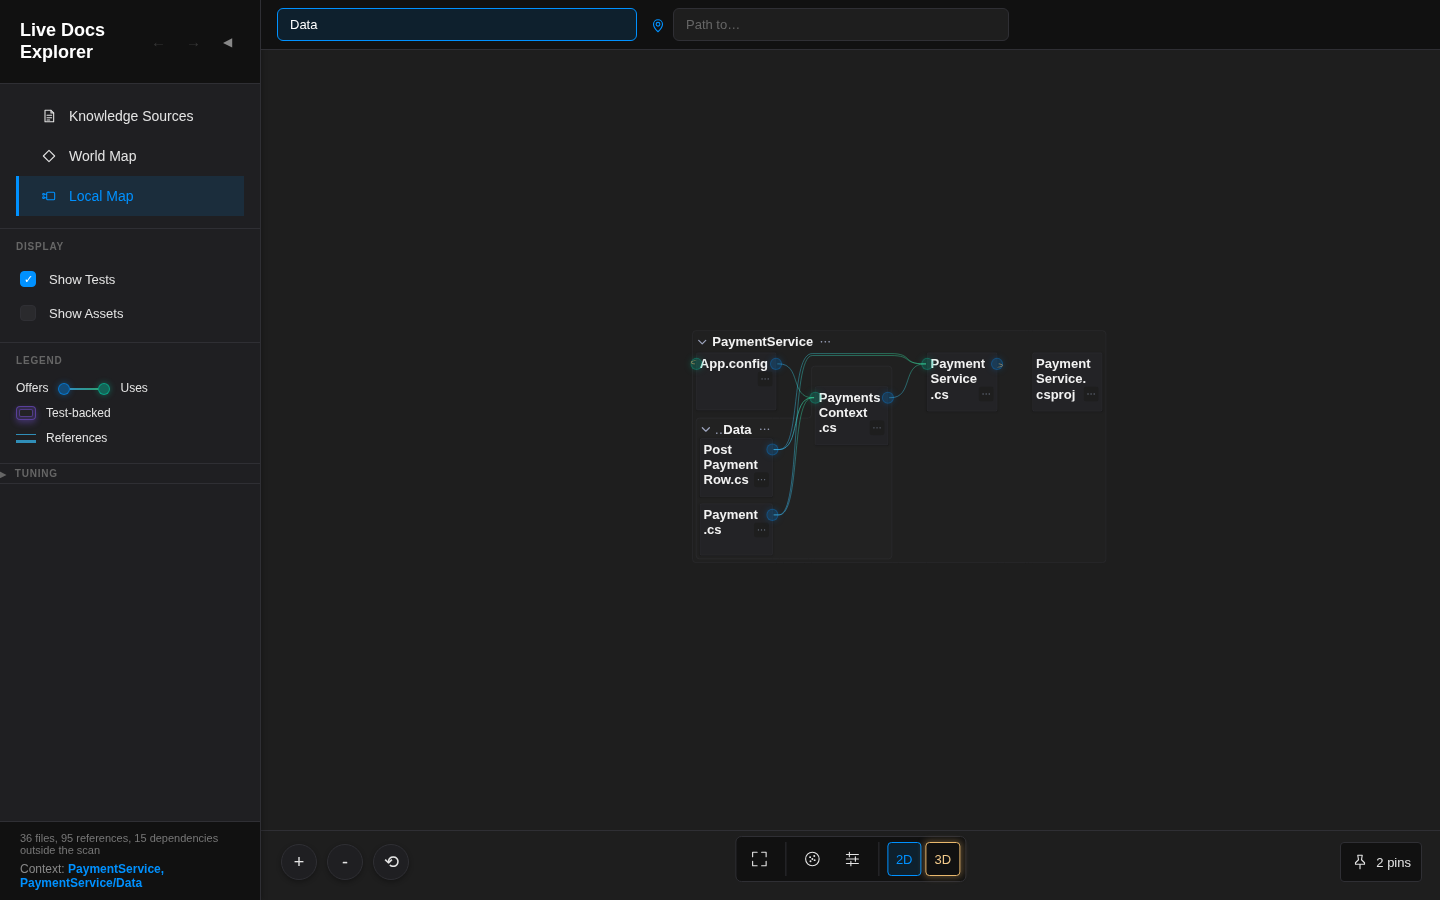
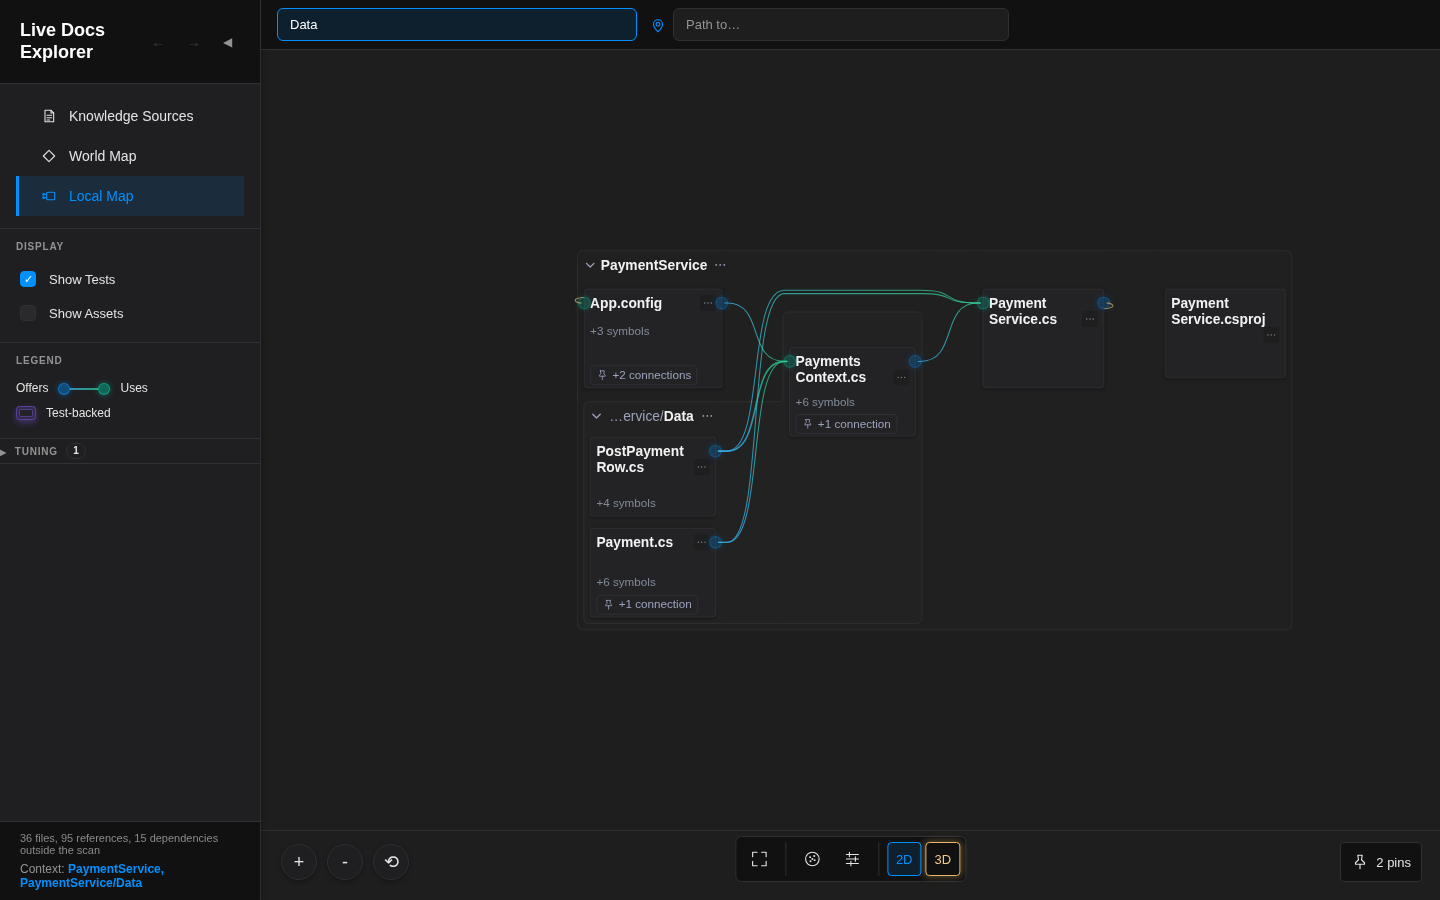
Retake the returning connections pictures on the final build, with the route's alternatives and the price's two hubs

diff --git a/AI-Agent-Workspace/AgentSessionHistory/2026/11/2026-11-18/Screenshots/returning-connections/README.md b/AI-Agent-Workspace/AgentSessionHistory/2026/11/2026-11-18/Screenshots/returning-connections/README.md
@@ -1,6 +1,6 @@
 # A cycle's returning connection, the row's hover, and the hubs
 
-Historical evidence, November 19, 2026 (UTC). A builder's pictures for the round that answered the owner's picture of [Turn 23 of the day's record](../../2026-11-18.1.record.md#turn-23) ([their picture](../owner-turn-23/README.md)). All are 1440 by 900, the suite's stilled search, nothing remembered. "The owner's state" is the estate sample with the directories `PaymentService` and `PaymentService/Data` opened, Flow, the default; "rows shown" adds a press on the "+N symbols" of `App.config` and `PaymentService.cs`, as the owner had done. Before is `main` at `55cb5477`; after is the branch `returning-connections` at each step.
+Historical evidence, November 19, 2026 (UTC). A builder's pictures for the round that answered the owner's picture of [Turn 23 of the day's record](../../2026-11-18.1.record.md#turn-23) ([their picture](../owner-turn-23/README.md)). All but 18 and 19 are 1440 by 900, the suite's stilled search, nothing remembered. "The owner's state" is the estate sample with the directories `PaymentService` and `PaymentService/Data` opened, Flow, the default; "rows shown" adds a press on the "+N symbols" of `App.config` and `PaymentService.cs`, as the owner had done. Before is `main` at `55cb5477`. Every "after" picture (02, 03, 05 to 09, 11 to 25) was retaken on November 19 on the round's final build, the branch `returning-connections-finish` merged with `main`, so all of them show the hubs at the names and the route over the top; 02 and 13 are now the same state and picture, as are 05 and 12, and 11 and 15. The tuning panel's badge reads 1 because the browser suite saves one setting of its own (the search's starts at nought).
 
 The cycle is `PaymentService.cs` to `PaymentsContext.cs` to `App.config` and back. Its return, `App.config`'s use of `PaymentService.cs`, is in the graph a link from `App.config`'s Internals to `PaymentService.cs`'s row `PaymentService`; in Flow it is a pair line between the two files' hubs.
 
@@ -9,7 +9,7 @@ The cycle is `PaymentService.cs` to `PaymentsContext.cs` to `App.config` and bac
 | Picture | What it shows |
 | --- | --- |
 | [01-before-row-internals-connections.png](01-before-row-internals-connections.png) | The owner's state, rows shown, at the connections look, the pointer on `App.config`'s Internals, which carries the return. Every wire of the picture fades, the return's two curls among them: the owner's report. The hub of `App.config` stands half way down the card, level with the row `Estate.Payments.Paym...`. |
-| [02-after-row-internals-connections.png](02-after-row-internals-connections.png) | The same with the first two steps: the return's two laces and its route are kept and drawn, everything else fades. |
+| [02-after-row-internals-connections.png](02-after-row-internals-connections.png) | The same after the round: the return's two laces and its route are kept and drawn, everything else fades. |
 | [03-after-row-paymentsdb-reading.png](03-after-row-paymentsdb-reading.png) | At the reading look, the pointer on `App.config`'s `PaymentsDb`, which `PaymentsContext.cs` uses: that line is kept, and the row at its far end (`PaymentsContext.cs`'s Internals, not shown on its card) with it. |
 
 ## 2. What the cue counts, drawn in its colour; a lace or a foot keeps its whole connection
@@ -17,8 +17,8 @@ The cycle is `PaymentService.cs` to `PaymentsContext.cs` to `App.config` and bac
 | Picture | What it shows |
 | --- | --- |
 | [04-before-reading-rest.png](04-before-reading-rest.png) | The owner's state as it arrives: a green curl at `App.config`'s left edge, a blue one at `PaymentService.cs`'s right, the 3D button amber. |
-| [05-after-reading-rest.png](05-after-reading-rest.png) | The same with the second step: both curls amber, the 3D button's colour; every other wire in the roles' blue and green. |
-| [06-after-reading-lace.png](06-after-reading-lace.png) | The pointer on `App.config`'s lace: both laces and the route kept, both cards standing, the other cards and every other wire faded. The route is the straight amber line from one card's edge to the other's, across both cards. |
+| [05-after-reading-rest.png](05-after-reading-rest.png) | The same after the round: both curls amber, the 3D button's colour, at the files' names; every other wire in the roles' blue and green. |
+| [06-after-reading-lace.png](06-after-reading-lace.png) | The pointer on `App.config`'s lace: both laces and the route kept, both cards standing, the other cards and every other wire faded. The route leaves `PaymentService.cs` to the right, runs back above both cards and comes down into `App.config` from the left (section 4). |
 | [07-after-reading-foot.png](07-after-reading-foot.png) | The pointer on `App.config`'s foot, "1 connection returns in a cycle": the same. |
 | [08-after-connections-lace.png](08-after-connections-lace.png) and [09-after-overview-lace.png](09-after-overview-lace.png) | A lace pointed at, at the connections and overview looks. |
 | [10-before-branch-renderer.png](10-before-branch-renderer.png) and [11-after-branch-renderer.png](11-after-branch-renderer.png) | This repository's `branch-renderer.ts` opened alone: six returning laces at its right edge, blue before and amber after; the green curls at its left edge are the file's own references, which are no returns and keep their colours. |
@@ -28,7 +28,7 @@ The cycle is `PaymentService.cs` to `PaymentsContext.cs` to `App.config` and bac
 | Picture | What it shows |
 | --- | --- |
 | [12-after-hubs-reading.png](12-after-hubs-reading.png) | The owner's state as it arrives with the third step: each line ends level with its file's name, the cards standing by their names. |
-| [13-after-hubs-connections-row.png](13-after-hubs-connections-row.png) | The owner's picture again, rows shown, the pointer on `App.config`'s Internals: the curls stand at the names, clear of every row. The route, still a straight line between the two hubs, now runs through both names. |
+| [13-after-hubs-connections-row.png](13-after-hubs-connections-row.png) | The owner's picture again, rows shown, the pointer on `App.config`'s Internals: the curls stand at the names, clear of every row, and the route runs back above both cards. (Before the route was redrawn this picture showed it as a straight line between the hubs, through both names.) |
 | [14-after-hubs-overview.png](14-after-hubs-overview.png) | The overview look: the hubs at the held names, larger with the look. |
 | [15-after-hubs-branch-renderer.png](15-after-hubs-branch-renderer.png) | `branch-renderer.ts` alone with the third step, unchanged where no hub ends a line. |
 
@@ -46,4 +46,28 @@ The hubs stand at the middle of the header's first line: for a name of one line,
 
 - The row's hover keeps exactly what carries the row's links (the browser case reads them from the graph's own links).
 - The amber laces read as one thing with the button. In these pictures no directory mark in orange stands near them (a closed directory's cells are drawn by file kind, and none here is a directory cell), so no second hue was drawn for comparison.
-- The route as drawn is a straight line between the two hubs and crosses both cards: before the third step it crossed the rows level with the hubs, after it crosses both file names. It reads as one connection with the laces, but as a strike through the names. Left for the root and the owner.
+- The route was a straight line between the two hubs across both cards: before the hubs moved it crossed the rows level with them, after it struck both file names through. It is now drawn over the top (section 4).
+
+## 4. The lit route: three ways to draw it
+
+The same two states for each: the reading look with the pointer on `App.config`'s lace, and the owner's state with rows shown at the connections look with the pointer on `App.config`'s Internals. A and B were drawn into the built page by the picture script (A: the old pin-to-pin line, straight here since both hubs are level, masked by every card's box; B: the route hidden); C is the built product.
+
+| Pictures | Alternative | What I see |
+| --- | --- | --- |
+| [20](20-route-a-beneath-reading-lace.png), [21](21-route-a-beneath-connections-row.png) | A: the old line beneath the cards, seen only between them | The names are clear, but what remains is one amber segment from `App.config`'s right hub to `PaymentService.cs`'s left hub, past `PaymentsContext.cs`: the exact shape of a forward wire saying `App.config` offers to `PaymentService.cs`, which is the opposite of the truth. The laces are disconnected from it. It reads as a wire, but the wrong one. |
+| [22](22-route-b-none-reading-lace.png), [23](23-route-b-none-connections-row.png) | B: no route; both laces and both cards lit, the rest faded | Honest and quiet; it cannot be taken for a forward wire. At the reading look the two lit cards say "these two"; at the connections look the two laces are small hooks at opposite ends of the frame and nothing draws the eye from one to the other: it reads as two lit things, not as one connection. |
+| [24](24-route-c-over-reading-lace.png), [25](25-route-c-over-connections-row.png) | C (built): the route leaves the offering card's pin to the right, runs back above every card between the two pins, and comes down into the using card's pin from the left | One closed amber loop around both cards, continuous with both laces: it reads as one connection, and as a way back. It crosses no card and no name. It runs right to left above the picture, where no forward wire runs, so it cannot be taken for one. Cost: one pure function (`returnRoute` in `returning-connections.ts`) and the boxes the router already measures. |
+
+C is built; A and B stay as pictures for the root and the owner. The route stands 12 px above the highest box that a run at its height would meet between its turns, so a tall card between the two pins lifts it, and turns 12 px outside each pin.
+
+## The Flow price and the hub's place
+
+The price that chooses an opened directory's shape under Flow measures a nominal card, not the page's, and still ends every line half way down it (`nominalMeasurer` in `directory-flow.ts`), though the page now stands hubs at the names. `scripts/live-docs` opened, at 1800 by 1100, Flow, as the browser case `local-map-directories.spec.ts` opens it:
+
+| Pictures | What they show |
+| --- | --- |
+| [18-price-nominal-hub-half-way.png](18-price-nominal-hub-half-way.png), [its Width Cost at nought](18-price-nominal-hub-half-way-width-cost-0.png) | The price as it is (the default): four rows; with Width Cost at nought the directory stands wider, in two rows. |
+| [19-price-nominal-hub-at-name.png](19-price-nominal-hub-at-name.png), [its Width Cost at nought](19-price-nominal-hub-at-name-width-cost-0.png) | A trial build with the nominal hub at the name (23 px down, where a one-line name beside the controls stands it): the default is the same four rows, but Width Cost at nought no longer widens it; it stays in four rows. `local-map-directories.spec.ts:553` fails on that build for this reason ("Width Cost turns the choice"). |
+
+The default is unchanged; which the owner prefers is open.
+
